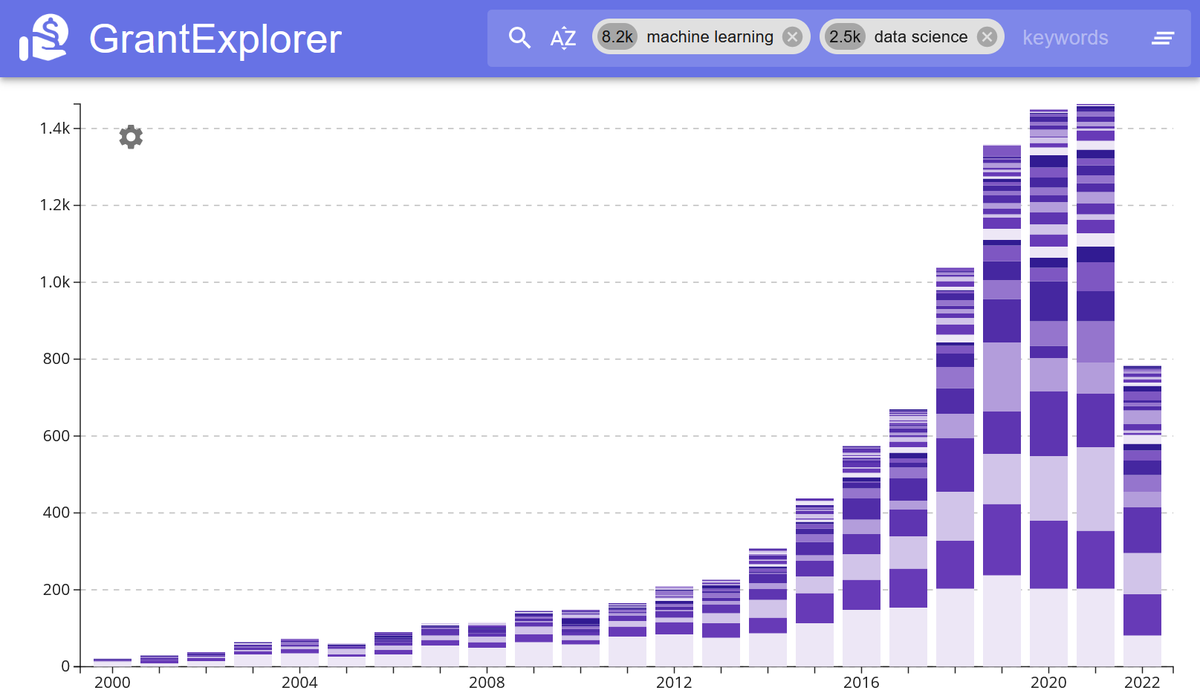
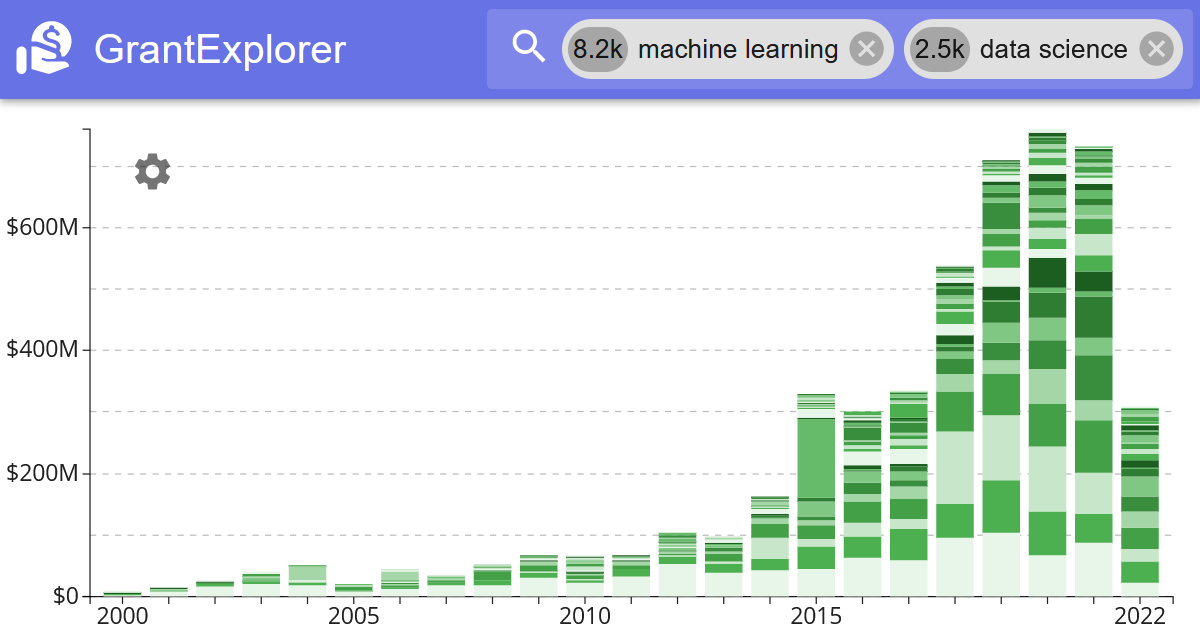
new thumbnail, fixed description

diff --git a/frontend/public/index.html b/frontend/public/index.html
@@ -6,11 +6,12 @@
     <link rel="shortcut icon" href="%PUBLIC_URL%/favicon.ico" />
     <meta name="viewport" content="width=device-width, initial-scale=1" />
     <meta name="theme-color" content="#000000" />
-    <meta property="og:title" content=GrantExplorer>
-    <meta property="og:site_name" content=grantexplorer.org>
-    <meta property="og:url" content=grantexplorer.org>
-    <meta property="og:description" content=An interactive data visualization dashboard for exploring federal grant data with NLP>
-    <meta property="og:type" content=website>
+    <meta property="og:title" content="GrantExplorer">
+    <meta property="og:site_name" content="grantexplorer.org">
+    <meta property="og:url" content="grantexplorer.org">
+    <meta property="description" content="Explore federal grant data interactively, synthesizing queries with natural language modeling">
+    <meta property="og:description" content="Explore federal grant data interactively, synthesizing queries with natural language modeling">
+    <meta property="og:type" content="website">
     <meta property="og:image" content="%PUBLIC_URL%/og-thumbnail.png">
     <!--
       manifest.json provides metadata used when your web app is installed on a
